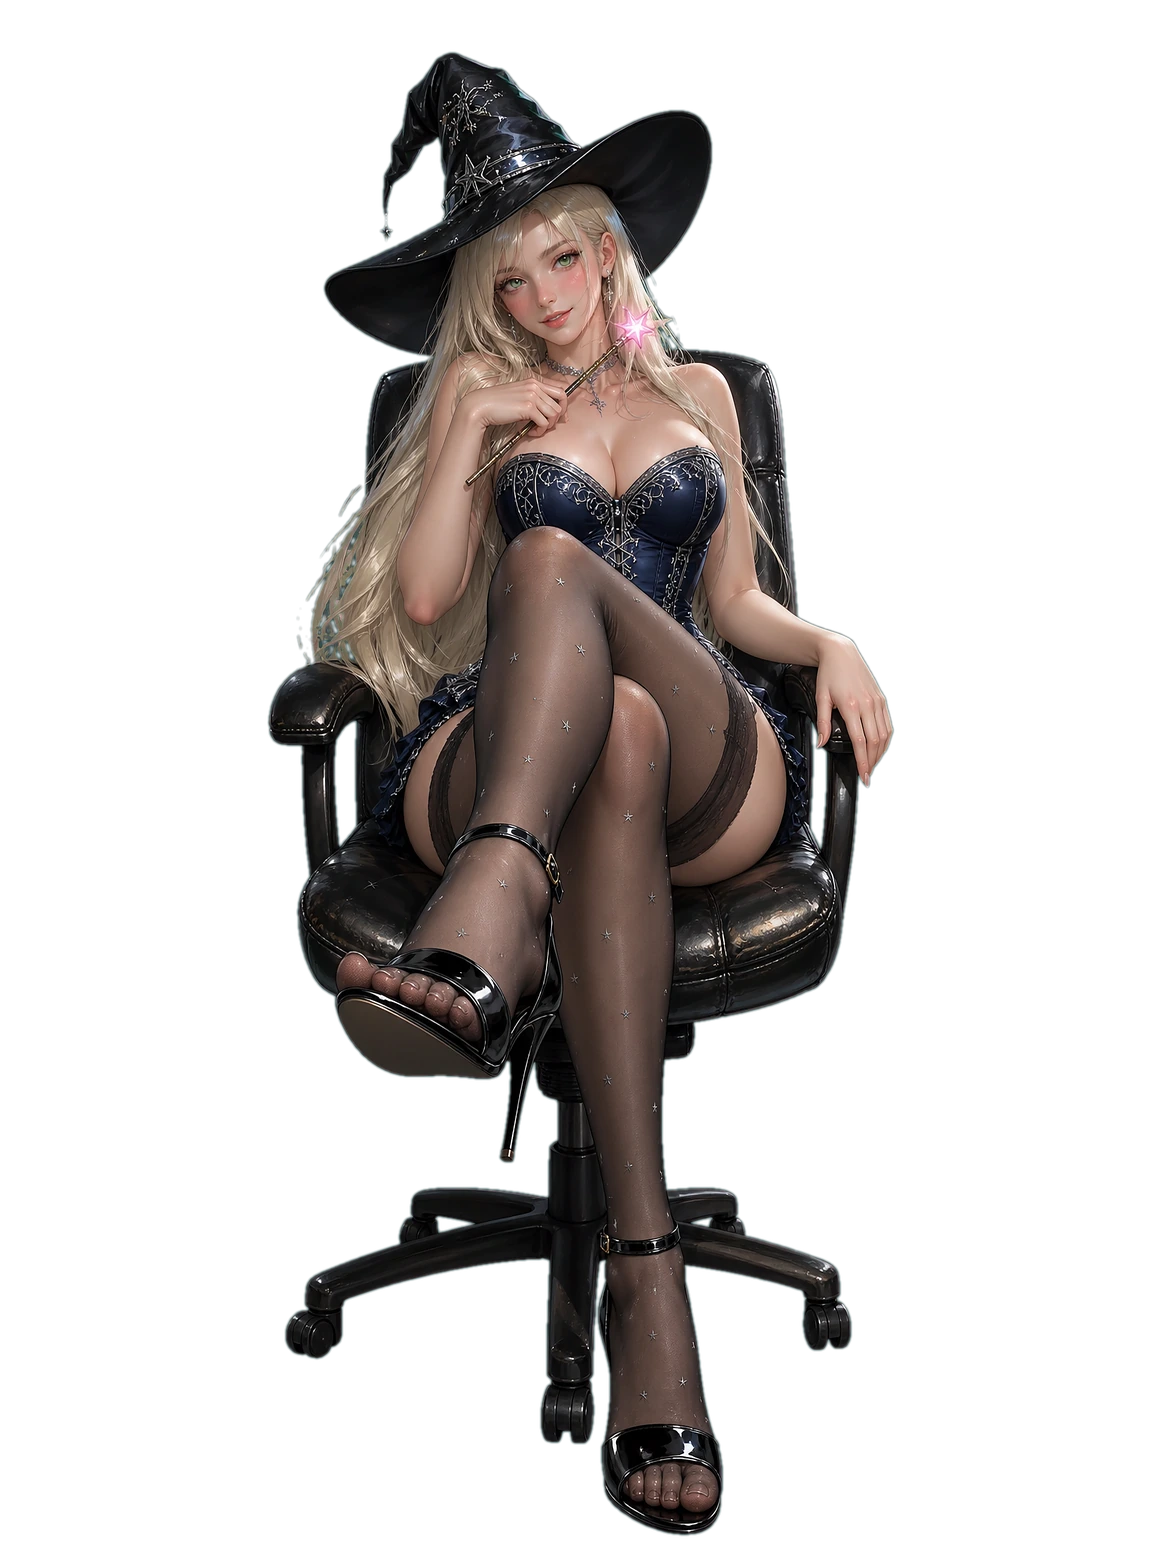
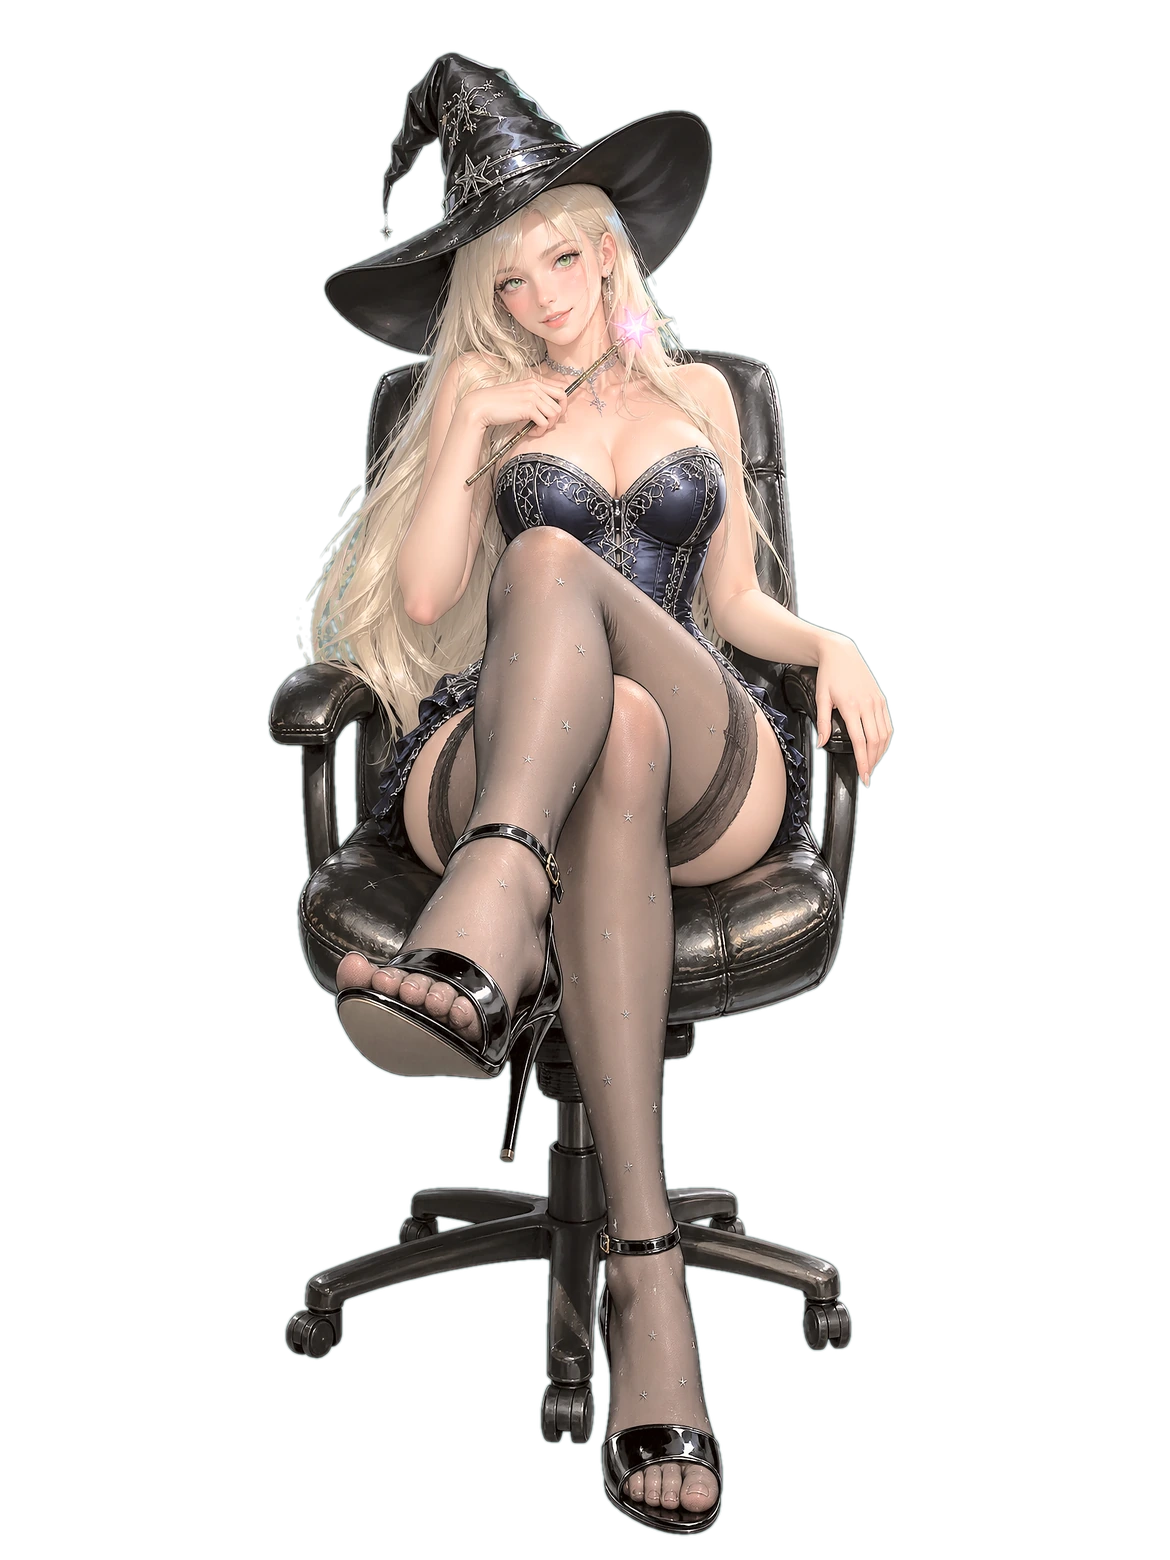
День 4: тон приведён к канону (L 117-123 / S 57-66 как у дня 2)
Новые генерации выходили тёмными и пересвеченными по насыщенности
(L 72-94 при 118-127 у дня 2). Добавлена детерминированная цветокоррекция
prep_real_d4.grade: L-кривая по процентилям кадра (p5/p50/p95 -> 22/140/232)
плюс лёгкое приглушение хромы 0.92 и тёплый сдвиг +1.5/+3.5 в LAB.
Рисунок, поза и черты не меняются — только тон.

Мастера и _sm пересобраны, пропсы груди пересчитаны под новый тон.

Changed region(s): [[0.2154, 0.0308, 0.7692, 0.9846]]

diff --git a/tools/prep_real_d4.py b/tools/prep_real_d4.py
@@ -8,6 +8,8 @@ HD-пайплайн (ACNet x4 + шарп + разворот свечения) ж
 import os
 import sys
 
+import numpy as np
+import cv2
 from PIL import Image
 
 sys.path.insert(0, os.path.dirname(os.path.abspath(__file__)))
@@ -19,6 +21,37 @@ RAW = PR.RAW
 OUT = PR.OUT
 POSES = ('sg1', 'sg2', 'sg3', 'sg4')
 
+
+
+# ТОН КАНОНА. Новые генерации выходят заметно темнее и насыщеннее канона
+# (L ~72-94 при 113-127 у дней 2-3, S ~64-83 при 38-69). Правка чисто
+# цветокорректорская: тянем L-кривую по процентилям к канону и слегка
+# приглушаем хрому — рисунок, поза и черты не меняются.
+GRADE_PTS = ((0.05, 22.0), (0.50, 140.0), (0.95, 232.0))
+CHROMA_K = 0.92
+WARM = (1.5, 3.5)   # кожа канона теплее: чуть больше розового и жёлтого
+
+
+def grade(art):
+    if os.environ.get('D4_GRADE') == '0':
+        return art
+    arr = np.asarray(art.convert('RGBA'))
+    rgb, al = arr[..., :3], arr[..., 3]
+    lab = cv2.cvtColor(rgb, cv2.COLOR_RGB2LAB).astype(np.float32)
+    L = lab[..., 0]
+    body = al > 40
+    q5, q50, q95 = np.percentile(L[body], [5, 50, 95]) if body.any() else (30.0, 120.0, 200.0)
+    q5, q50, q95 = float(q5), float(q50), float(q95)
+    # опорные точки прижимаем, чтобы кривая осталась монотонной
+    q5 = max(2.0, min(q5, q50 - 2.0))
+    q95 = min(253.0, max(q95, q50 + 2.0))
+    xs = [0.0, q5, q50, q95, 255.0]
+    ys = [0.0, GRADE_PTS[0][1], GRADE_PTS[1][1], GRADE_PTS[2][1], 255.0]
+    lab[..., 0] = np.interp(L, xs, ys)
+    lab[..., 1] = 128.0 + (lab[..., 1] - 128.0) * CHROMA_K + WARM[0]
+    lab[..., 2] = 128.0 + (lab[..., 2] - 128.0) * CHROMA_K + WARM[1]
+    out = cv2.cvtColor(np.clip(lab, 0, 255).astype(np.uint8), cv2.COLOR_LAB2RGB)
+    return Image.fromarray(np.dstack([out, al]), 'RGBA')
 
 CS = None
 
@@ -42,6 +75,7 @@ def main(argv):
         print(f'{tag}:')
         base = Image.open(src).convert('RGB')
         art = HD.sharpen(HD.art_from(base, HD.FACTOR))
+        art = grade(art)
         # новые генерации дня 4 нарисованы уже в палитре канона: подгонка LAB
         # им не нужна и только выбеливает кожу (включается D4_CANON=1)
         if os.environ.get('D4_CANON') == '1':
